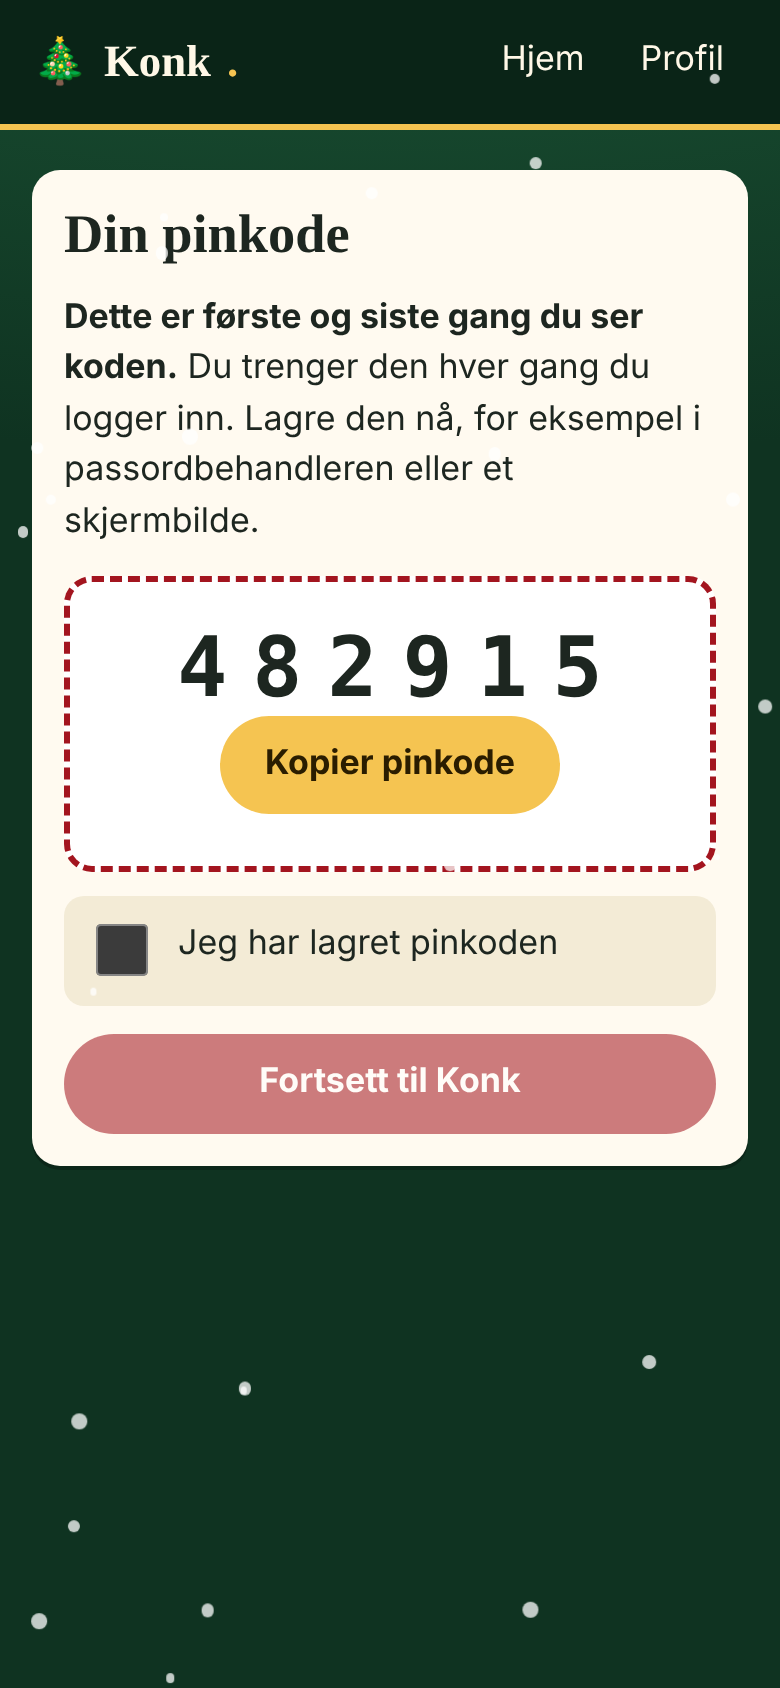
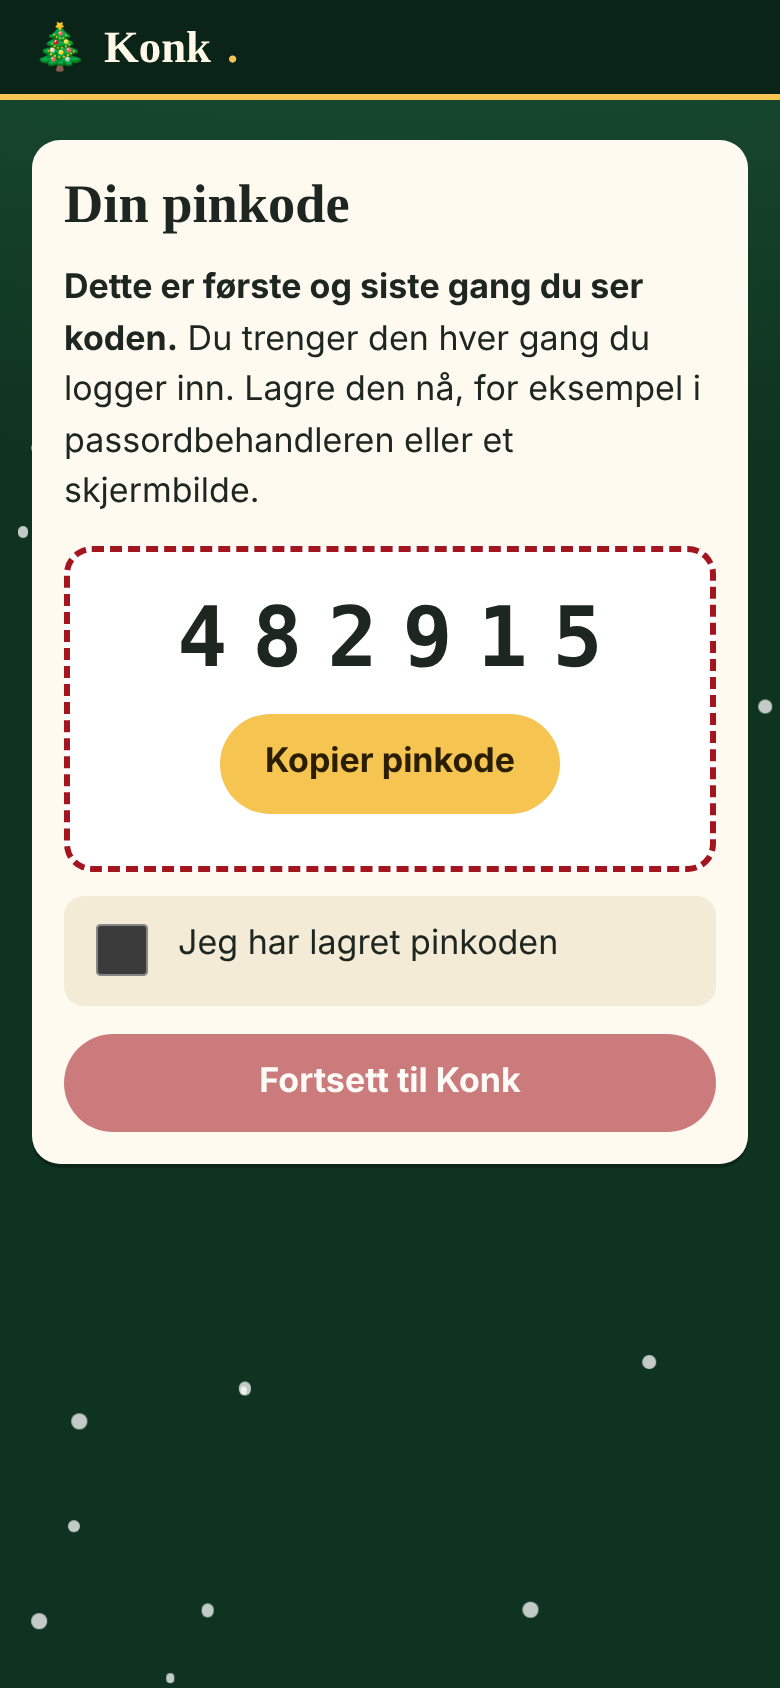
WIP: oppdatert frontend og dokumentasjon for Konk
Claude-Session: https://claude.ai/code/session_017NqKPASJtEdvZC9FNXBCYT

diff --git a/src/styles.css b/src/styles.css
@@ -88,7 +88,7 @@ input.pin { font-size: 2rem; letter-spacing: .5em; text-align: center; font-vari
 
 /* Pin */
 .pin-box { background: #fff; border: 3px dashed var(--red); border-radius: var(--radius); padding: 18px; text-align: center; margin: 12px 0; }
-.pin-code { font: 700 2.6rem ui-monospace, Menlo, monospace; letter-spacing: .3em; color: var(--ink); padding-left: .3em; user-select: all; }
+.pin-code { margin-bottom: 14px; font: 700 2.6rem ui-monospace, Menlo, monospace; letter-spacing: .3em; color: var(--ink); padding-left: .3em; user-select: all; }
 
 /* Konkurranseliste */
 .comp-link { display: block; text-decoration: none; color: inherit; }
@@ -158,7 +158,7 @@ table.t th, table.t td { text-align: left; padding: 8px 6px; border-bottom: 1px 
 .hidden-row { opacity: .65; text-decoration: line-through; }
 
 /* Snø */
-.snow { position: fixed; inset: 0; pointer-events: none; z-index: 30; overflow: hidden; }
+.snow { position: fixed; inset: 0; pointer-events: none; z-index: 0; overflow: hidden; }
 .snow i { position: absolute; top: -12px; width: var(--s, 6px); height: var(--s, 6px); border-radius: 50%; background: #fff; opacity: .75; animation: fall var(--d, 12s) linear var(--delay, 0s) infinite; left: var(--x); }
 @keyframes fall { from { transform: translate3d(0, -10px, 0); } to { transform: translate3d(var(--drift, 30px), 105vh, 0); } }
 @media (prefers-reduced-motion: reduce) { .snow { display: none; } * { scroll-behavior: auto !important; } }

diff --git a/src/components/Layout.tsx b/src/components/Layout.tsx
@@ -1,16 +1,18 @@
-import { NavLink, Link, Outlet } from 'react-router-dom'
+import { NavLink, Link, Outlet, useLocation } from 'react-router-dom'
 import { useAuth } from '../auth'
 import Snow from './Snow'
 
 export default function Layout() {
   const { session, profile } = useAuth()
+  // Skjul navigasjon mens pinkoden vises (på /registrer) slik at den ikke forsvinner ved et uhell
+  const showNav = session && useLocation().pathname !== '/registrer'
   return (
     <>
       <Snow />
       <header className="app-header">
         <div className="app-header-inner">
           <Link to="/" className="brand"><span aria-hidden="true">🎄</span>Konk<span className="dot" aria-hidden="true">.</span></Link>
-          {session && (
+          {showNav && (
             <nav className="nav" aria-label="Hovedmeny">
               <NavLink to="/" end>Hjem</NavLink>
               <NavLink to="/profil">Profil</NavLink>

diff --git a/docs/NOTES.md b/docs/NOTES.md
@@ -1,0 +1,35 @@
+# Frontend-notater (Konk)
+
+## Kjøring
+- `npm run dev` / `npm run build` / `npm run typecheck` (= `npm run lint`, ren tsc) / `npm test` (Vitest).
+- `.env` (ikke i git) har VITE_SUPABASE_URL og anon-nøkkel (legacy JWT `anon`); `.env.example` har tomme nøkler.
+- UI-test: `npm run build && npx vite preview --port 4173 &` deretter `NODE_PATH=<global node_modules> node e2e/run.cjs`. Testen mocker hele Supabase-nettverket via Playwright `route`, tar mobilskjermbilder (390x844) til `docs/screenshots/`.
+- API-kontrakten er samlet i `src/api/` (`functions.ts` = konk-auth/konk-admin, `data.ts` = tabeller og RPC, `types.ts`).
+
+## Antakelser
+- Anon-nøkkel: legacy JWT-anon brukes (fungerer både med supabase-js og som Bearer mot edge functions); publishable-nøkkelen kan byttes inn i `.env`.
+- `konk_entries.score` antas NOT NULL: score, gjetning og kommentar lagres derfor først når score er valgt (UI sier «Velg en score for å lagre»). Upsert bruker `onConflict: 'user_id,item_id'` og krever unik constraint på (user_id,item_id).
+- Autosave: score/gjetning lagres umiddelbart, kommentar 700 ms etter siste tastetrykk, samt flush ved Neste/Forrige, bytte av glass, blur, og når fanen skjules. Lagringer serialiseres.
+- «Gjett fra liste» har et ekstra valg «Vet ikke» (guess_option_id = null).
+- `hit_rate` tolkes som andel 0..1 (verdier >1 tolkes som prosent). `avg`/`avg_score` på skala 1–10, vist med komma og 1 desimal.
+- Resultatside: rangering = glass sortert etter avg_score (like snitt deler plass); kontor rangert etter avg_score. Kommentarene fra `konk_results` vises per glass; reaksjoner (😋 👍 😬 🤢 🎄) togles ved å inserte/slette egen `konk_feedback`-rad (emoji uten kommentar). Fritekst-feedback finnes kun på «resultat» (target='result'); på glass kun reaksjoner (men kommentarer med target='item' vises hvis de finnes).
+- Admin kan se resultatside også for ikke-avsluttede konkurranser (RPC tillater admin).
+- Resultatsiden er bare tilgjengelig for `closed` (admin unntatt). Forsiden lenker closed -> resultat, open -> stepper. Draft-konkurranser skjules på forsiden (`status<>draft`); admin ser alle under /admin.
+- `konk_competitions.kind` er fritekst i admin (standard `brus`) siden lovlige verdier ikke står i kontrakten.
+- Profil: oppdaterer kun `display_name` og `anonymous` i `konk_profiles` (krever at egen-rad-update er tillatt av RLS fra konk_001; pin_hash røres aldri).
+- Admin-moderering: skjuler/viser via `hidden` på `konk_entries` og `konk_feedback` (admin select+update iht. kontrakt). Brukerliste leser `konk_profiles` (admin select).
+- Admin «Glass og fasit»: fasit lagres i `konk_item_answers` (upsert på item_id; tom = slett). Slett glass forutsetter cascade/delete-policy.
+- Pinkode: holdes kun i React-state på /registrer (ikke storage/URL/router-state), nav skjules mens den vises, `beforeunload`-advarsel, og fjernes ved «Fortsett» (krever avkrysning «Jeg har lagret pinkoden»). Samme én-gangs-visning for admin-reset (lukk-knapp fjerner den). Session settes via `supabase.auth.setSession` samtidig, så brukeren er innlogget uansett.
+- Feilkoder fra konk-auth mappes: 401 `invalid_pin`, 429 `too_many_attempts`; RPC-feil `not_closed` -> «ikke klare ennå».
+
+## Tema / tilgjengelighet
+- Palett som CSS-variabler i `src/styles.css`; `src/lib/theme.test.ts` verifiserer WCAG AA (4.5:1 tekst, 3:1 fokus/kanter) for alle brukte tekst/bakgrunn-par.
+- Snø er dekorativ (`aria-hidden`), bak innholdet, og skjules helt ved `prefers-reduced-motion: reduce`.
+- Tydelig fokusring (blå + hvit glorie) fungerer på både mørk og lys bakgrunn; trykkflater >= 44–48 px; score/gjett er radiogrupper (tastatur og skjermleser).
+
+## Åpne punkter
+- Ikke testet mot ekte backend (konk_002/edge functions var ikke klare); kun mocket nettverk. Bør røyktestes ende-til-ende: register -> setSession -> upsert entries -> close -> results.
+- Verifiser at RLS tillater: egne `konk_entries` upsert, egen `konk_profiles` update, `konk_feedback` insert/delete for bruker.
+- Bilder (`image_path`) vises ikke; ikke krevd i kontrakten.
+- Bundle ~520 kB (150 kB gzip); kunne code-splittes (Admin) ved behov.
+- Ingen ESLint; `lint` = typecheck.
